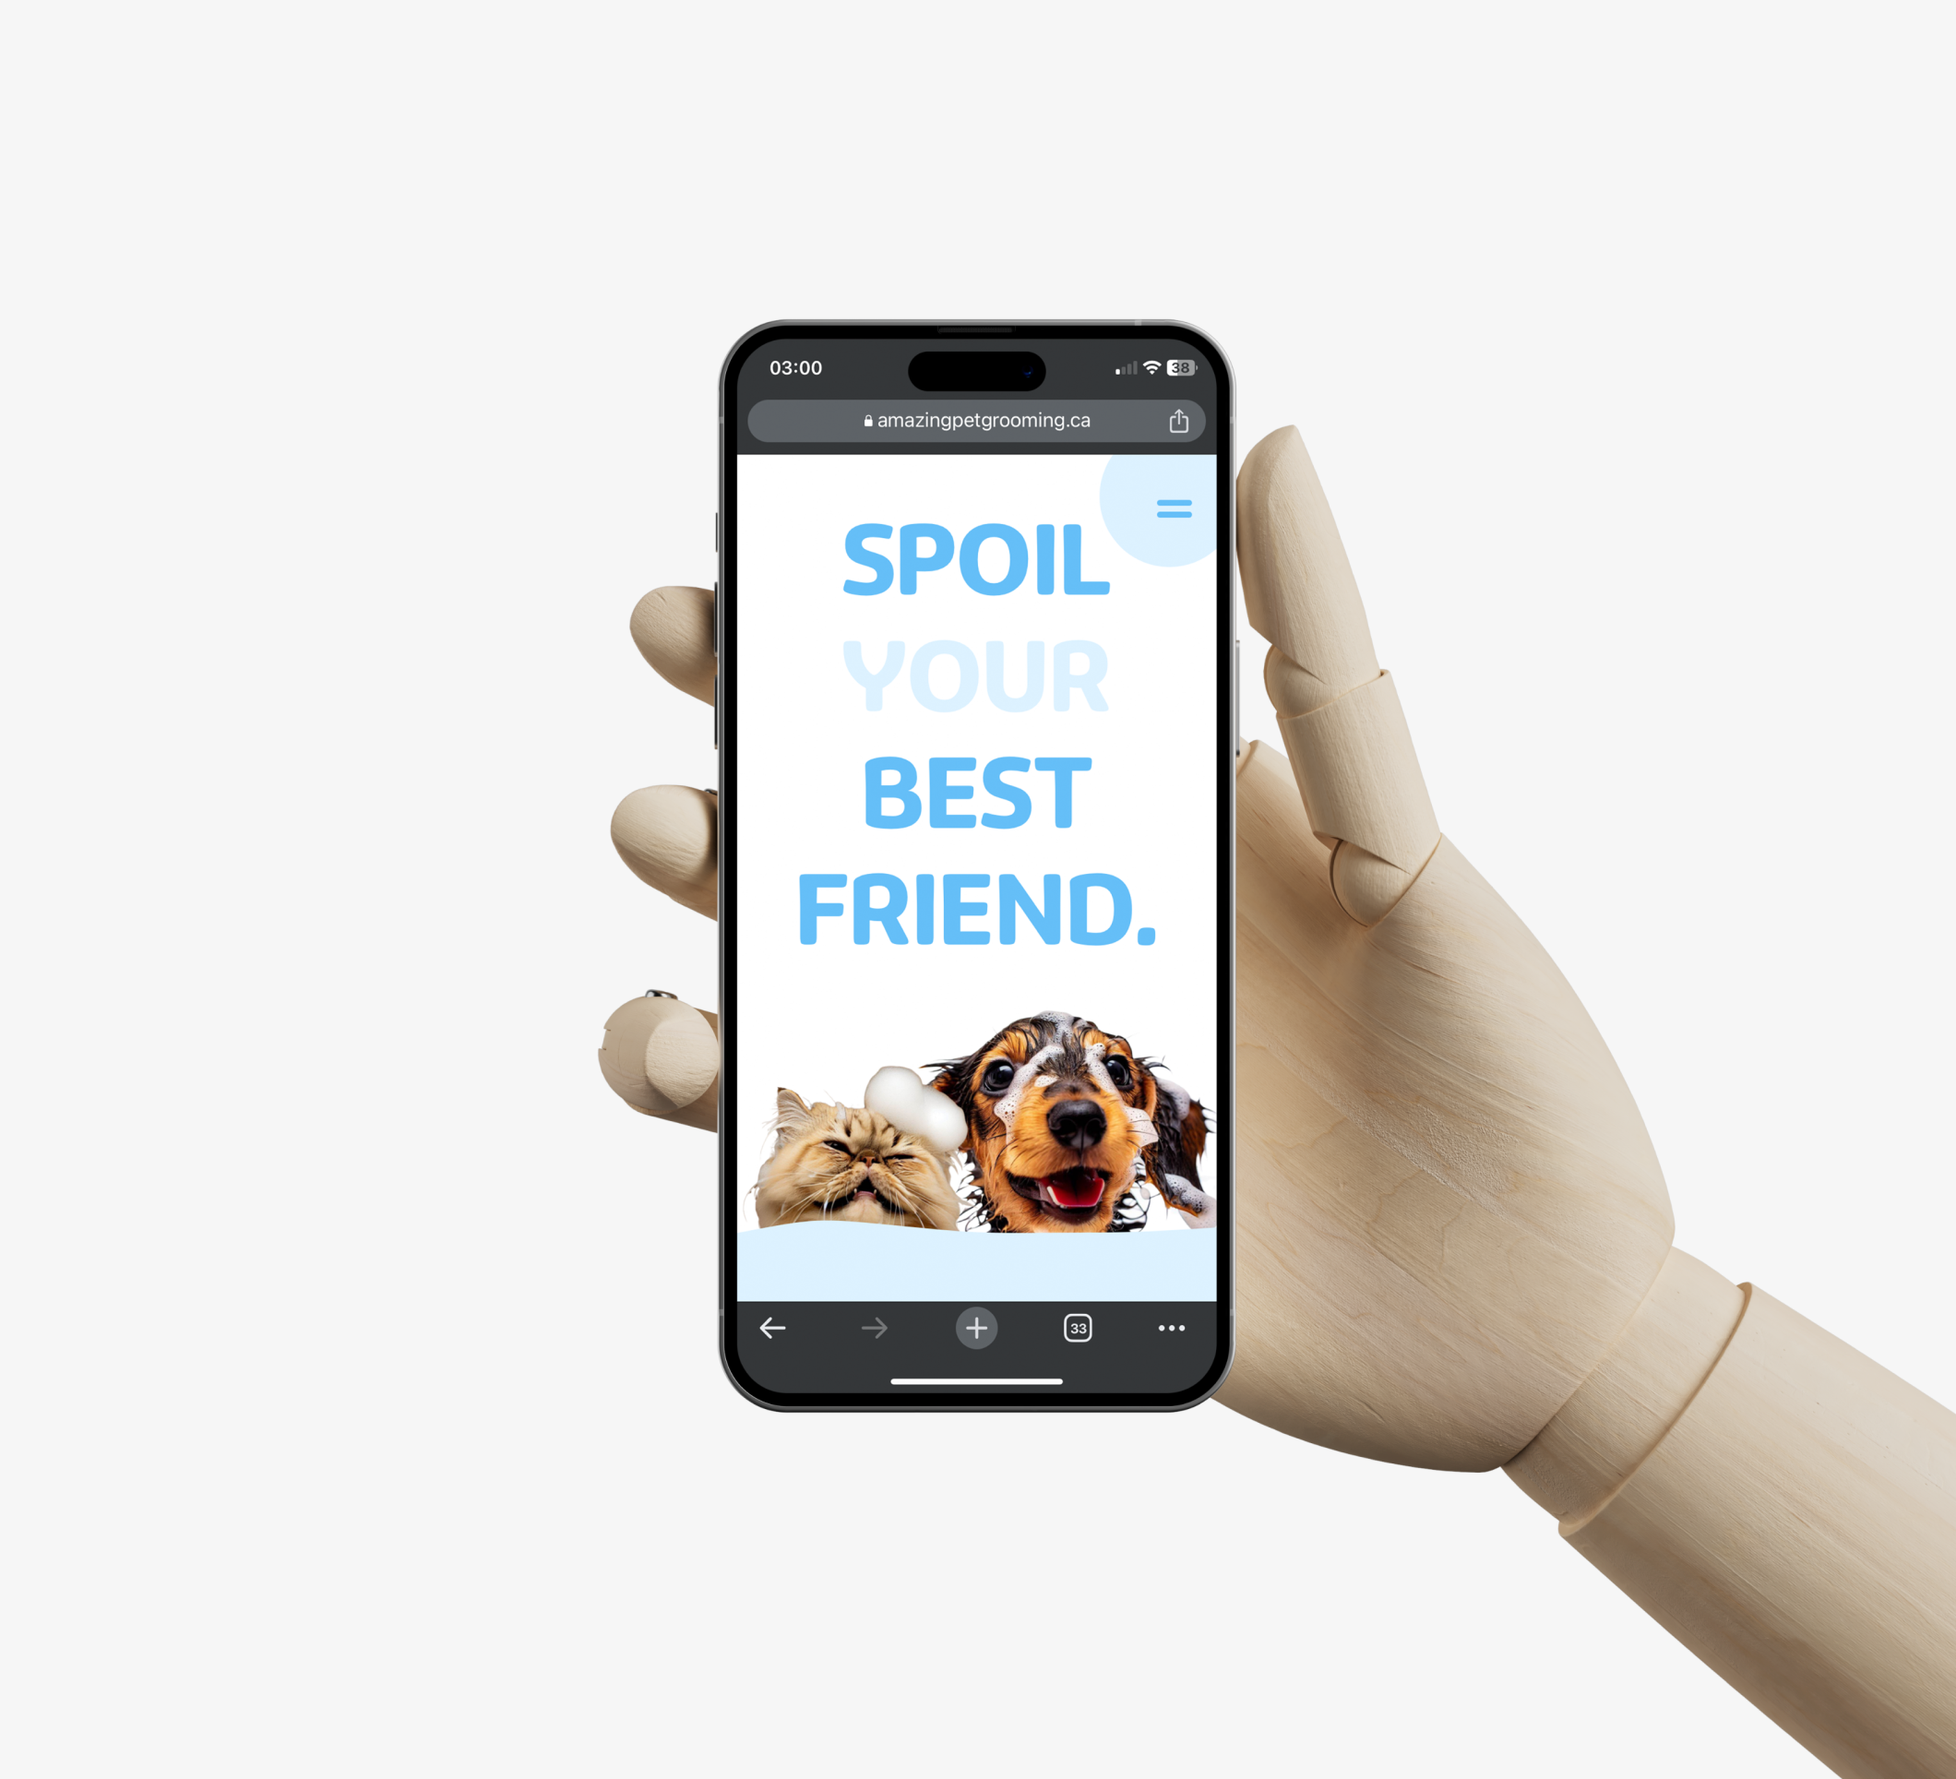
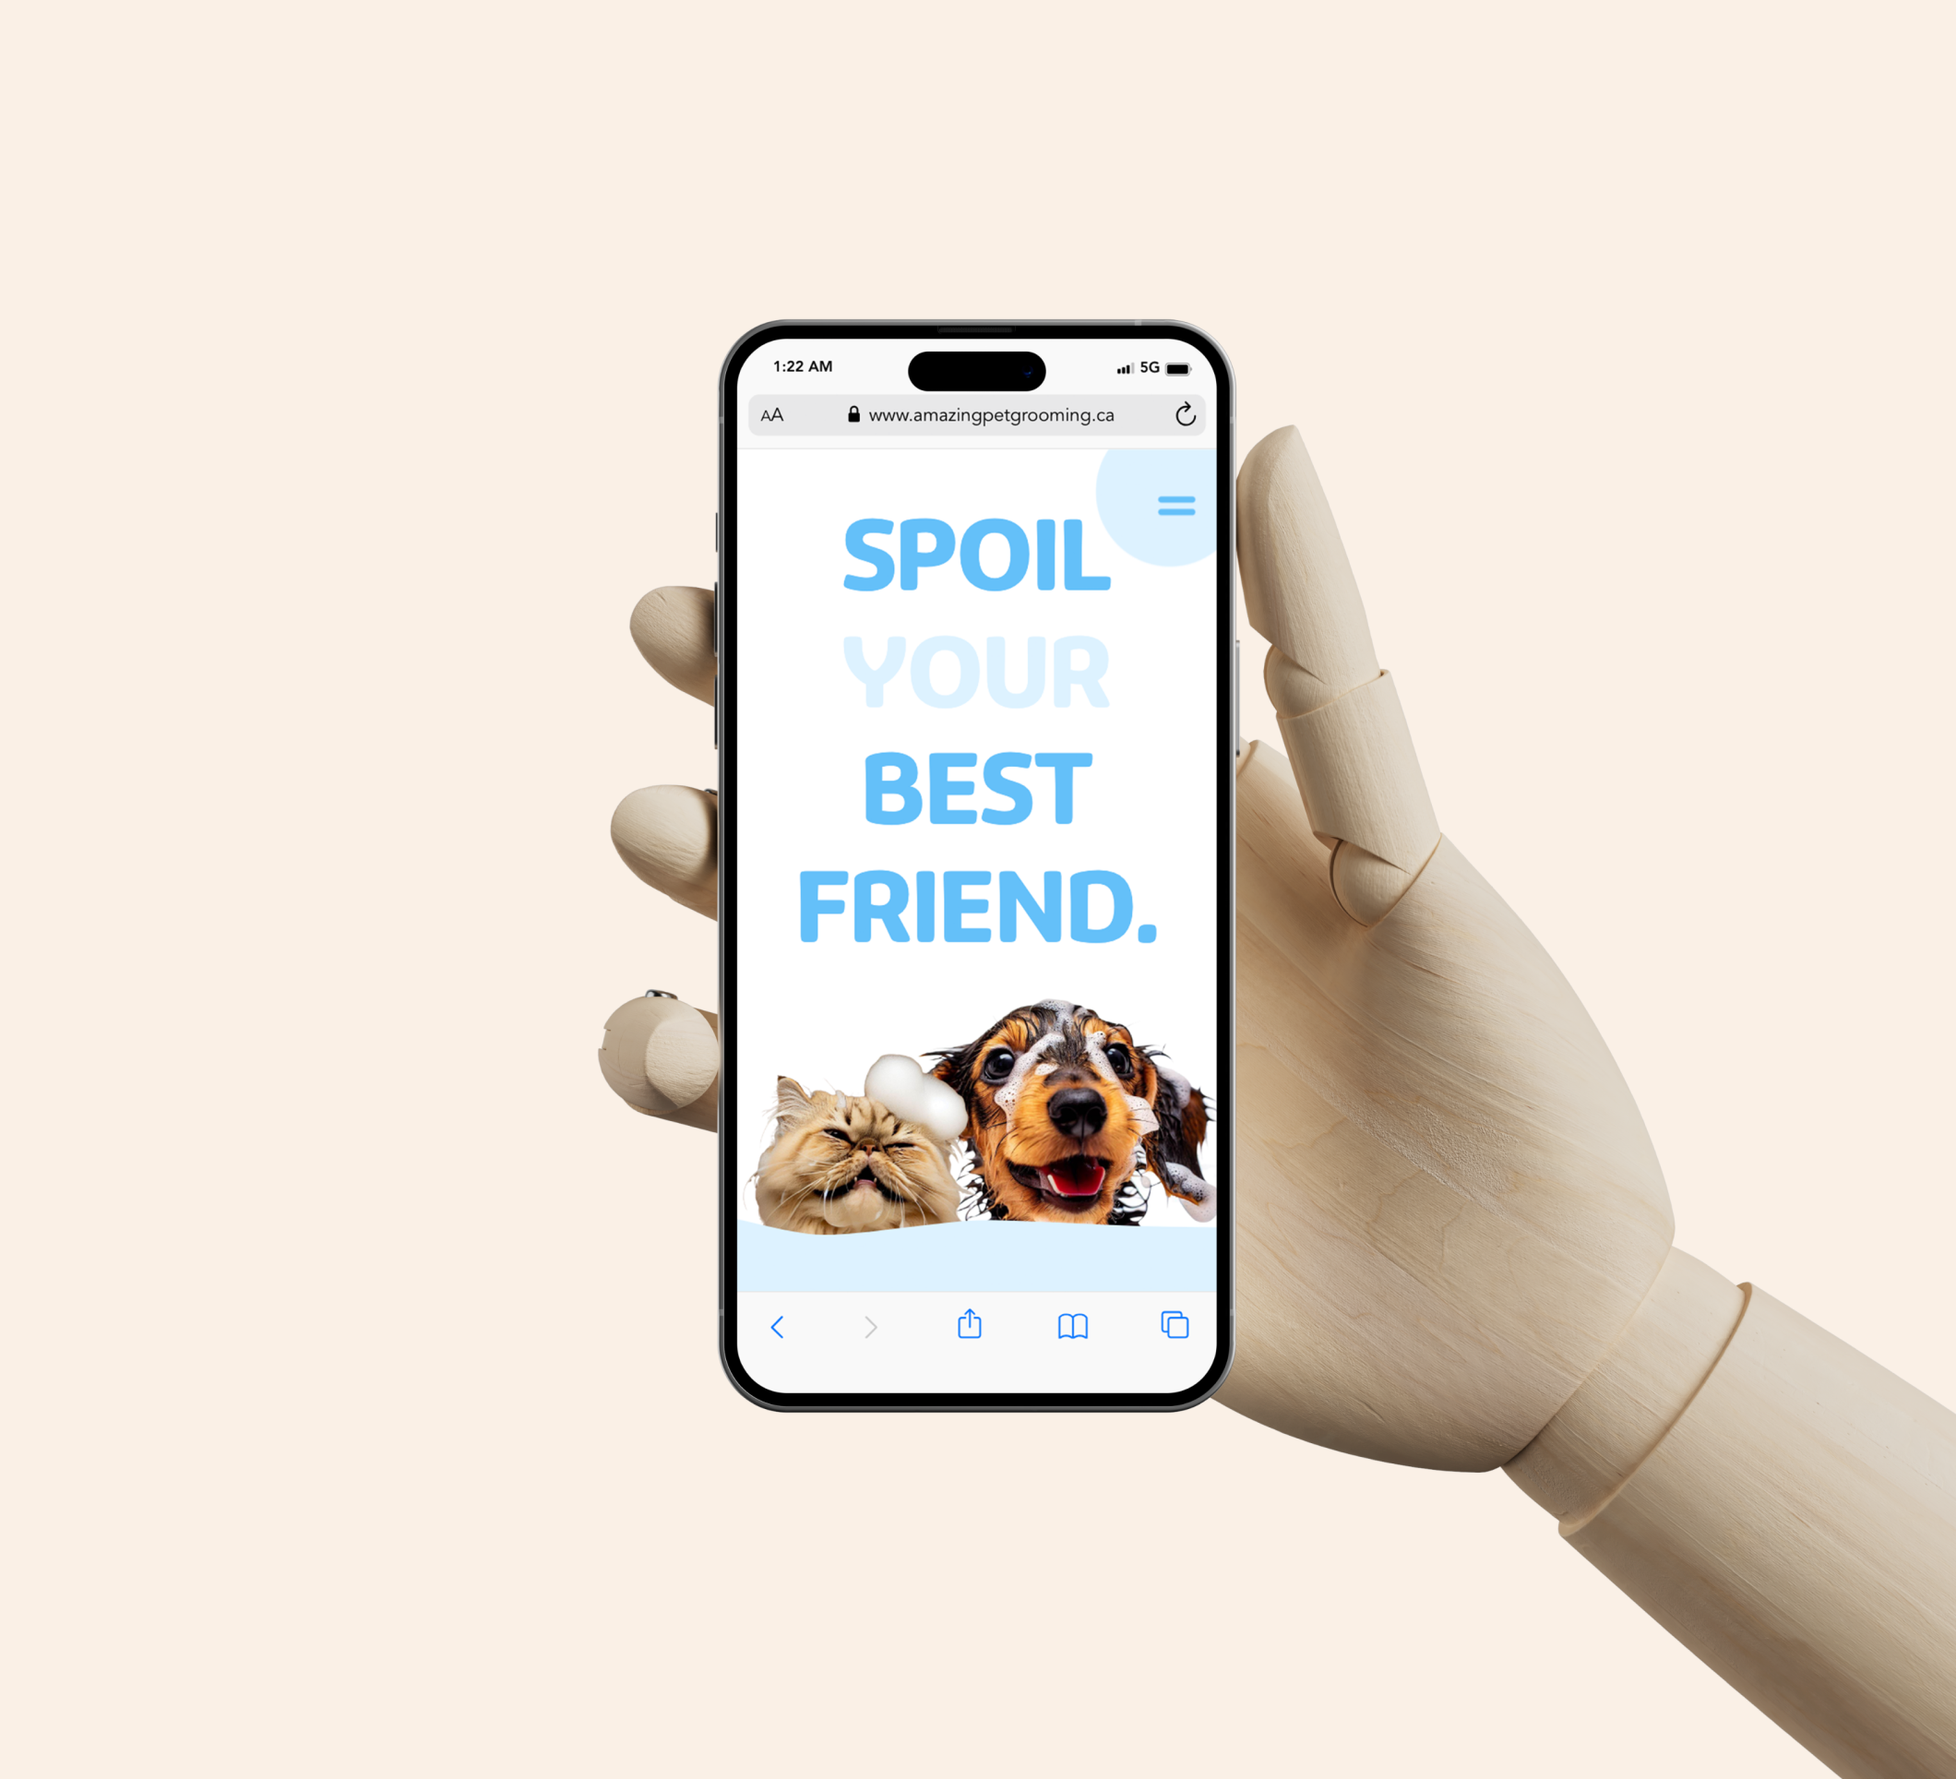
change about text size, update nav screenshots, create services page

diff --git a/src/components/services/Hero.js b/src/components/services/Hero.js
@@ -1,0 +1,77 @@
+import React, { useLayoutEffect, useRef } from "react";
+import CustomSection from "../customElements/CustomSection";
+import CustomImage from "../customElements/CustomImage";
+import { gsap, Expo } from "gsap";
+import SplitText from "../../utils/Split3.min";
+import { ScrollTrigger } from "gsap/all";
+
+const Hero = () => {
+  const container = useRef(null);
+
+  useLayoutEffect(() => {
+    const splitTitleParent = new SplitText("#servicesText", {
+      type: "words, chars",
+      chars: "chars",
+      charsClass: "wordsParent",
+    });
+
+    const splitTitle = new SplitText("#servicesText", {
+      type: "words, chars",
+      charsClass: "wordsBlack swearFont",
+    });
+
+    const ctx = gsap.context(() => {
+      let tl = gsap.timeline({});
+      tl.fromTo(
+        splitTitle.chars,
+        {
+          y: "150px",
+        },
+        {
+          y: 0,
+          duration: 1.5,
+          ease: Expo.easeInOut,
+          stagger: 0.008,
+        }
+      );
+      ScrollTrigger.create({
+        trigger: ".imgTriggerS",
+        start: "top 10%",
+        end: "bottom 50%",
+        scrub: true,
+        animation: gsap.to(".servicesMainImg", {
+          scale: 0.9,
+        }),
+      });
+    }, container);
+
+    return () => ctx.revert();
+  }, []);
+  return (
+    <div ref={container}>
+      <CustomSection
+        fullHeightNav
+        className="pt-desktop md:pt-tablet flex flex-col items-end"
+      >
+        <h4
+          className="text-[20px] lg:text-[30px] font-swearDisplay leading-[95%] text-black text-right w-[80%] md:w-1/2 px-mobile md:px-tablet lg:px-desktop"
+          id="servicesText"
+        >
+          We believe in your success: Unveiling our brand empowerment services
+        </h4>
+        <div className="w-full h-[80vh] imgTriggerS">
+          <div className="w-full h-full relative servicesMainImg">
+            <CustomImage
+              image="/images/rocket_services.png"
+              onLoad
+              noHover
+              noRounded
+            />
+          </div>
+        </div>
+      </CustomSection>
+    </div>
+  );
+};
+
+export default Hero;

diff --git a/src/screens/About.js b/src/screens/About.js
@@ -16,9 +16,9 @@ const About = () => {
   useLayoutEffect(() => {
     const ctx = gsap.context(() => {
       ScrollTrigger.create({
-        trigger: container.current,
-        start: "top 70%",
-        end: "bottom 70%",
+        trigger: ".textTrigger",
+        start: "bottom 100%",
+        end: "bottom 100%",
         animation: gsap.fromTo(
           ".textAbout",
           {
@@ -29,7 +29,7 @@ const About = () => {
             yPercent: 0,
             opacity: 1,
             duration: 1,
-            ease: Expo.easeInOut,
+            ease: Expo.easeOut,
           }
         ),
       });
@@ -52,14 +52,14 @@ const About = () => {
         className="w-full py-tablet px-mobile md:px-tablet lg:px-desktop flex flex-col items-end gap-50"
         ref={container}
       >
-        <div className="w-[80%] md:w-[60%] h-[80vh] rounded-10">
-          <CustomImage image="/images/team_working.png" />
+        <div className="w-[80%] md:w-[60%] h-[80vh] rounded-10 textTrigger">
+          <CustomImage image="/images/team_working.png" onLoad noHover />
         </div>
         <p className="w-[70%] md:w-1/2 text-justify textAbout text-black">
-          We are a premier agency in Waterloo, ON. dedicated to developing and designing
-          websites for emerging and mid-market businesses. Our mission is to
-          deliver dynamic websites with attractive and intuitive mechanics that
-          generate an impact on the future of the business of each of our
+          We are a premier agency in Waterloo, ON. dedicated to developing and
+          designing websites for emerging and mid-market businesses. Our mission
+          is to deliver dynamic websites with attractive and intuitive mechanics
+          that generate an impact on the future of the business of each of our
           clients.
         </p>
       </div>

diff --git a/src/components/services/stadistics/Statistics.js b/src/components/services/stadistics/Statistics.js
@@ -1,0 +1,57 @@
+import React from "react";
+import { useNavigate } from "react-router";
+import Card from "./Card";
+import CustomATag from "../../customElements/CustomATag";
+import { navigateToPage } from "../../../utils/navigateToPage";
+import { colors } from "../../../utils/constants";
+
+const Statistics = () => {
+  const navigate = useNavigate();
+  return (
+    <div className="w-full h-full px-mobile pt-[5px] md:px-tablet lg:px-desktop pb-desktop grid grid-cols-1 md:grid-cols-3 gap-50">
+      <Card title="97%">
+        97% of consumers search for local businesses online.{" "}
+        <CustomATag
+          href={undefined}
+          colorHover={colors.main}
+          onClick={() => {
+            navigateToPage(navigate, "/contact");
+          }}
+          className="text-main"
+        >
+          Having a website ensures your business is discoverable.
+        </CustomATag>
+      </Card>
+      <Card title="40%">
+        Small businesses that have an online presence and a website{" "}
+        <CustomATag
+          href={undefined}
+          colorHover={colors.main}
+          onClick={() => {
+            navigateToPage(navigate, "/contact");
+          }}
+          className="text-main"
+        >
+          grow 40% faster
+        </CustomATag>{" "}
+        than those that don't.
+      </Card>
+      <Card title="x3">
+        Websites{" "}
+        <CustomATag
+          href={undefined}
+          colorHover={colors.main}
+          onClick={() => {
+            navigateToPage(navigate, "/contact");
+          }}
+          className="text-main"
+        >
+          generate 3 times more leads
+        </CustomATag>
+        than traditional methods.
+      </Card>
+    </div>
+  );
+};
+
+export default Statistics;

diff --git a/src/components/customElements/LineTitle.js b/src/components/customElements/LineTitle.js
@@ -9,8 +9,8 @@ const LineTitle = ({ title }) => {
       gsap.set(".slideLeft", {
         scaleX: 0,
       });
-      gsap.set(".processTitle", {
-        y: 5,
+      gsap.set(".proccessItemTitle", {
+        bottom: -16,
         opacity: 0,
       });
       ScrollTrigger.create({
@@ -27,8 +27,8 @@ const LineTitle = ({ title }) => {
         trigger: container.current,
         start: "top 50%",
         end: "bottom 50%",
-        animation: gsap.to(".processTitle", {
-          y: -20,
+        animation: gsap.to(".proccessItemTitle", {
+          bottom: -2,
           opacity: 1,
           duration: 1,
           ease: Expo.easeOut,
@@ -41,10 +41,10 @@ const LineTitle = ({ title }) => {
 
   return (
     <div
-      className="w-[30%] hidden md:flex flex-col justify-center items-center relative"
+      className="w-[30%] hidden md:flex flex-col justify-center items-center relative overflow-hidden"
       ref={container}
     >
-      <span className="text-main text-sm absolute left-1/2 transform -translate-x-1/2 top-1/2 -translate-y-[calc(50%+10px)] processTitle">
+      <span className="text-main text-sm relative proccessItemTitle">
         {title}
       </span>
       <div className="w-full h-[1px] bg-main slideLeft origin-left" />

diff --git a/src/components/about/ProcessItem.js b/src/components/about/ProcessItem.js
@@ -6,44 +6,10 @@ gsap.registerPlugin(ScrollTrigger);
 
 const ProcessItem = ({ process }) => {
   const container = useRef(null);
-  useLayoutEffect(() => {
-    const ctx = gsap.context(() => {
-      gsap.set(".slideLeft", {
-        scaleX: 0,
-      });
-      gsap.set(".processTitle", {
-        y: 5,
-        opacity: 0,
-      });
-      ScrollTrigger.create({
-        trigger: container.current,
-        start: "top 50%",
-        end: "bottom 50%",
-        animation: gsap.to(".slideLeft", {
-          scaleX: 1,
-          duration: 1.5,
-          ease: Expo.easeOut,
-        }),
-      });
-      ScrollTrigger.create({
-        trigger: container.current,
-        start: "top 50%",
-        end: "bottom 50%",
-        animation: gsap.to(".processTitle", {
-          y: -20,
-          opacity: 1,
-          duration: 1,
-          ease: Expo.easeOut,
-        }),
-      });
-    }, container);
-
-    return () => ctx.revert();
-  }, []);
 
   return (
     <div
-      className="w-ful flex flex-col md:flex-row justify-between items-stretch gap-100"
+      className="w-full flex flex-col md:flex-row justify-between items-center gap-100"
       ref={container}
     >
       <div className="processesContainer w-[70%]">

diff --git a/src/components/studyCase/ClientsOpinion.js b/src/components/studyCase/ClientsOpinion.js
@@ -63,7 +63,7 @@ const ClientsOpinion = ({ project }) => {
     >
       {isLoaded && (
         <>
-          <div className="flex flex-col gap-5 clientOpinion">
+          <div className="flex flex-col gap-5 clientOpinion z-[9999]">
             <p className="text-[22px] md:text-[32px] uppercase text-black">
               To create a groundbreaking operating experience, the NODO Film
               Systems allowed camera operators to adjust the weight of the
@@ -83,7 +83,7 @@ const ClientsOpinion = ({ project }) => {
           </CustomButton>
         </>
       )}
-      <div className="absolute top-1/2 left-1/2 transform -translate-x-1/2 -translate-y-1/2 z-9999 select-none pointer-events-none">
+      <div className="absolute top-1/2 left-1/2 transform -translate-x-1/2 -translate-y-1/2 select-none pointer-events-none">
         <img
           src="/images/fingerPrint.png"
           alt="fingerprint"

diff --git a/src/components/customElements/CustomATag.js b/src/components/customElements/CustomATag.js
@@ -2,7 +2,7 @@ import React, { useLayoutEffect, useRef } from "react";
 import { Expo, gsap } from "gsap";
 import { colors } from "../../utils/constants";
 
-const CustomATag = ({ href, children, colorHover }) => {
+const CustomATag = ({ href, children, colorHover, onClick, className }) => {
   const container = useRef(null);
   const tl = useRef(null);
 
@@ -40,11 +40,12 @@ const CustomATag = ({ href, children, colorHover }) => {
       onMouseLeave={() => {
         tl.current.reverse();
       }}
+      onClick={onClick}
       ref={container}
-      className="relative"
+      className={`relative ${className}`}
     >
       {children}
-      <div className="w-full h-[1.5px] bg-main absolute bottom-0 bottomLine origin-left" />
+      <div className="w-full h-[1.5px] bg-main absolute left-0 bottom-0 bottomLine origin-left" />
     </a>
   );
 };

diff --git a/src/screens/Services.js b/src/screens/Services.js
@@ -1,8 +1,23 @@
 import React, { useEffect } from "react";
+import { Helmet } from "react-helmet";
 import Transition from "../components/Transition";
+import Hero from "../components/services/Hero";
+import Statistics from "../components/services/stadistics/Statistics";
 
 const Services = () => {
-  return <div>Services</div>;
+  return (
+    <main>
+      <Helmet>
+        <title>Services - Samacle</title>
+        <meta
+          name="description"
+          content="Web agency in Waterloo, ON, CA. This is what we do good."
+        />
+      </Helmet>
+      <Hero />
+      <Statistics />
+    </main>
+  );
 };
 
 export default Transition(Services);

diff --git a/src/components/about/Hero.js b/src/components/about/Hero.js
@@ -39,12 +39,11 @@ const Hero = () => {
   return (
     <div ref={container}>
       <CustomSection
-        fullHeightNav
         hasPadding
         className="py-desktop md:py-desktop lg:py-tablet"
       >
         <h4
-          className="text-[65px] md:text-[86px] lg:text-[106px] xl:text-[120px] font-swearDisplay leading-[95%] w-full lg:w-[90%] text-black"
+          className="text-[45px] md:text-[55px] lg:text-[65px] xl:text-[75px] font-swearDisplay leading-[95%] w-full lg:w-[90%] text-black"
           id="aboutTitle"
         >
           We live and breathe design, innovation, and the thrill of helping

diff --git a/src/components/customElements/CustomLink.js b/src/components/customElements/CustomLink.js
@@ -69,7 +69,7 @@ const CustomLink = ({ children, className, route, image = "", onClick }) => {
           <img
             src={image}
             alt="Screenshot of about page"
-            className="absolute min-w-[70px] left-1/2 transform -translate-x-1/2 top-full link pointer-events-none"
+            className="absolute min-w-[70px] left-1/2 transform -translate-x-1/2 top-full link pointer-events-none rounded-[2px]"
           />
           <div className="absolute w-[70px] h-[45.5px] bg-white left-1/2 transform -translate-x-1/2 top-full screenshot origin-bottom pointer-events-none" />
         </>

diff --git a/src/components/customElements/CustomImage.js b/src/components/customElements/CustomImage.js
@@ -32,7 +32,9 @@ const CustomImage = ({
         animationCoverImage.play();
         animationSlideout.delay(0.5);
         animationCoverImage.delay(0.5);
-      } else {
+      }
+      //Reveal on scroll
+      else {
         ScrollTrigger.create({
           trigger: container.current,
           start: position.start,
@@ -47,6 +49,7 @@ const CustomImage = ({
         });
       }
 
+      //Hover effect
       if (!noHover) {
         tl.current = gsap.timeline({ paused: true });
 

diff --git a/src/components/services/stadistics/Card.js b/src/components/services/stadistics/Card.js
@@ -1,0 +1,14 @@
+import React from "react";
+
+const Card = ({ children, title }) => {
+  return (
+    <div className="w-full h-full flex flex-col items-center gap-20">
+      <h5 className="text-black font-medium text-[25px] lg:text-[40px]">
+        {title}
+      </h5>
+      <p className="text-black">{children}</p>
+    </div>
+  );
+};
+
+export default Card;
